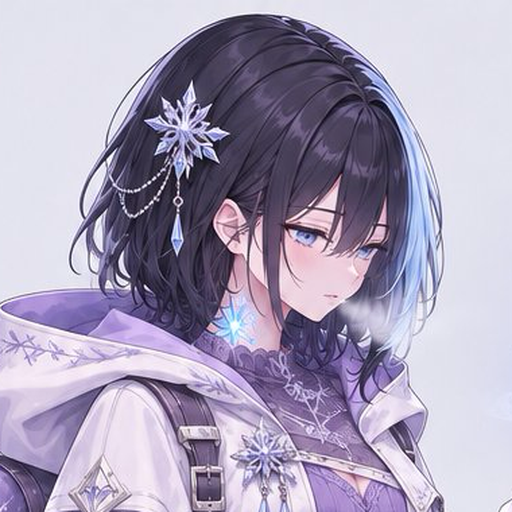
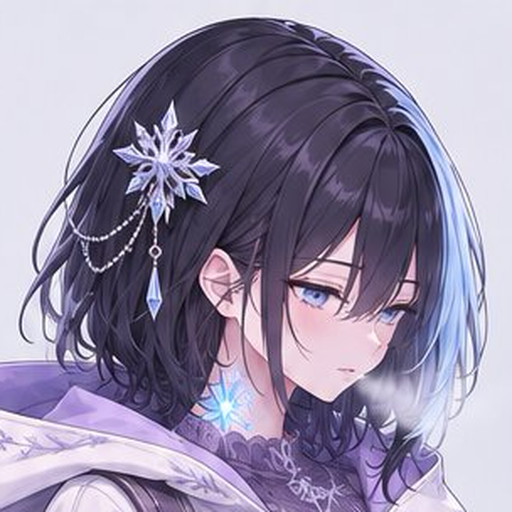
fix(HPA-924): tighten rin and shiori face crops, validate provenance schema
The 40 px face chips for rin and shiori were mostly dark hair and coat
because their crops included mid-chest area. Rin moves from 302,0,380 to
342,0,304 (+25% face scale) and shiori from 274,0,420 to 328,0,320
(+31%), keeping the full head, bun and ornaments inside the circle.

The provenance test only checked the 36 keys, so a record missing its
role, method or approval stayed green. It now validates the schema of
every record: role, method enum, non-empty approval/source/reference and
model/prompt null unless generated. provenance.json notes and approval
strings now match the method semantics, and the contact sheet and
validation note record the tighter crops and accepted rim overflows.

diff --git a/test/game/character_art_contract_test.dart b/test/game/character_art_contract_test.dart
@@ -177,7 +177,7 @@ void main() {
       }
     });
 
-    test('provenance.json has exactly one entry per art file', () {
+    test('provenance.json has a valid schema record for every art file', () {
       final file = File('$_artRoot/provenance.json');
       expect(file.existsSync(), isTrue, reason: '${file.path} is missing');
       final decoded = jsonDecode(file.readAsStringSync());
@@ -186,7 +186,8 @@ void main() {
         isA<Map<String, dynamic>>(),
         reason: 'provenance.json must be a JSON object keyed by "{id}/{file}"',
       );
-      final recorded = (decoded as Map<String, dynamic>).keys.toSet();
+      final map = decoded as Map<String, dynamic>;
+      final recorded = map.keys.toSet();
       final expected = _artKeys();
       expect(
         expected.difference(recorded),
@@ -198,6 +199,71 @@ void main() {
         isEmpty,
         reason: 'provenance.json has entries for files outside the contract',
       );
+
+      for (final character in Character.values) {
+        for (final (fileName, expectedRole) in [
+          ('portrait.png', 'card'),
+          ('face.png', 'face'),
+          ('chibi.png', 'chibi'),
+        ]) {
+          final key = '${character.name}/$fileName';
+          final entry = map[key];
+          expect(entry, isA<Map<String, dynamic>>(), reason: key);
+          final record = entry as Map<String, dynamic>;
+          expect(
+            record['role'],
+            expectedRole,
+            reason: '$key role must be "$expectedRole"',
+          );
+          final method = record['method'];
+          expect(
+            method,
+            isIn(_allowedProvenanceMethods),
+            reason:
+                '$key method must be one of $_allowedProvenanceMethods '
+                '(got $method)',
+          );
+          for (final field in ['approval', 'source', 'reference']) {
+            final value = record[field];
+            expect(
+              value,
+              isA<String>(),
+              reason: '$key $field must be a String',
+            );
+            expect(
+              (value as String).trim(),
+              isNotEmpty,
+              reason: '$key $field must not be empty',
+            );
+          }
+          if (method == 'generated') {
+            for (final field in ['model', 'prompt']) {
+              final value = record[field];
+              expect(
+                value,
+                isA<String>(),
+                reason: '$key $field must be recorded when method is generated',
+              );
+              expect(
+                (value as String).trim(),
+                isNotEmpty,
+                reason: '$key $field must not be empty when generated',
+              );
+            }
+          } else {
+            expect(
+              record['model'],
+              isNull,
+              reason: '$key model must be null when method is $method',
+            );
+            expect(
+              record['prompt'],
+              isNull,
+              reason: '$key prompt must be null when method is $method',
+            );
+          }
+        }
+      }
     });
 
     test('every face entry names its source portrait and crop rectangle', () {
@@ -369,6 +435,15 @@ void main() {
 /// The three files every roster member ships, in the order the contract names
 /// them.
 const _artFiles = ['portrait.png', 'face.png', 'chibi.png'];
+
+/// The five provenance methods allowed by the HPA-924 design spec.
+const _allowedProvenanceMethods = {
+  'reused',
+  'optimized',
+  'cropped',
+  'retouched',
+  'generated',
+};
 
 const _artRoot = 'assets/images/characters';
 

diff --git a/docs/superpowers/validation/2026-11-21-hpa-924-character-art.md b/docs/superpowers/validation/2026-11-21-hpa-924-character-art.md
@@ -15,36 +15,36 @@ This note validates the Last Hearth character art pack under `assets/images/char
 
 ## 2. Audit of the 24 existing files
 
-Rows are in rank order (E to S). Repo bytes are sizes before this change. 12 of 24 files were SHA-256 identical to their ZIP entry before this change: all 12 chibis, and no portrait. Decisions: **reuse** = byte-identical to the approved entry and left unchanged; **keep** = repo PNG left byte-unchanged because its decoded pixels match the approved JPG; **retouch** = changed, see section 3. Outcome: 12 portraits keep, 7 chibis reuse, 5 chibis retouch.
+Rows are in rank order (E to S). Repo bytes are sizes before this change. 12 of 24 files were SHA-256 identical to their ZIP entry before this change: all 12 chibis, and no portrait. Decisions (matching `provenance.json` `method` values): **reuse** = repo PNG left byte-unchanged from HPA-922 (either byte-identical to the approved PNG entry, or decoded-pixel-matched to the approved JPG reference within JPEG tolerance); **retouch** = changed, see section 3. Outcome: 12 portraits reuse (decoded RGB matches the approved JPG), 7 chibis reuse (byte-identical to the approved PNG), 5 chibis retouch.
 
 | ID | File | Repo bytes | Source ZIP entry | SHA-256 identical | Decision | Reason |
 | --- | --- | ---: | --- | --- | --- | --- |
-| haruto | portrait.png | 1,053,927 | `character-concepts-v3/e1-haruto-sakaki.jpg` | no (JPG vs PNG) | keep | Decoded RGB matches the approved JPG: mean abs diff R/G/B 0.76/0.21/1.02, max 34/13/42. Lossless PNG master kept. |
+| haruto | portrait.png | 1,053,927 | `character-concepts-v3/e1-haruto-sakaki.jpg` | no (JPG vs PNG) | reuse | Decoded RGB matches the approved JPG: mean abs diff R/G/B 0.76/0.21/1.02, max 34/13/42. Repo PNG reused byte-unchanged. |
 | haruto | chibi.png | 192,583 | `character-concepts-v3/chibi/e1-haruto-sakaki.png` | yes | reuse | Byte-identical to the approved chibi. Border clean; RGBA 512×512, color type 6; minimum opaque margin 5 px. |
-| mio | portrait.png | 1,225,337 | `character-concepts-v3/e2-mio-tachibana.jpg` | no (JPG vs PNG) | keep | Decoded RGB matches the approved JPG: mean abs diff R/G/B 0.54/0.28/0.49, max 29/14/46. Lossless PNG master kept. |
+| mio | portrait.png | 1,225,337 | `character-concepts-v3/e2-mio-tachibana.jpg` | no (JPG vs PNG) | reuse | Decoded RGB matches the approved JPG: mean abs diff R/G/B 0.54/0.28/0.49, max 29/14/46. Repo PNG reused byte-unchanged. |
 | mio | chibi.png | 251,405 | `character-concepts-v3/chibi/e2-mio-tachibana.png` | yes (before retouch) | retouch | Byte-identical to the approved chibi, but 45 border pixels on the bottom row carry alpha 1–2, which breaks the fully transparent 1-px border. Border-only clear (section 3). |
-| sayo | portrait.png | 1,311,882 | `character-concepts-v3/d1-sayo-kitami.jpg` | no (JPG vs PNG) | keep | Decoded RGB matches the approved JPG: mean abs diff R/G/B 0.35/0.16/0.40, max 20/8/26. Lossless PNG master kept. |
+| sayo | portrait.png | 1,311,882 | `character-concepts-v3/d1-sayo-kitami.jpg` | no (JPG vs PNG) | reuse | Decoded RGB matches the approved JPG: mean abs diff R/G/B 0.35/0.16/0.40, max 20/8/26. Repo PNG reused byte-unchanged. |
 | sayo | chibi.png | 274,014 | `character-concepts-v3/chibi/d1-sayo-kitami.png` | yes | reuse | Byte-identical to the approved chibi. Border clean; RGBA 512×512, color type 6; minimum opaque margin 12 px. |
-| tetsuo | portrait.png | 1,409,813 | `character-concepts-v3/d2-tetsuo-kanda.jpg` | no (JPG vs PNG) | keep | Decoded RGB matches the approved JPG: mean abs diff R/G/B 0.49/0.23/0.66, max 28/12/42. Lossless PNG master kept. |
+| tetsuo | portrait.png | 1,409,813 | `character-concepts-v3/d2-tetsuo-kanda.jpg` | no (JPG vs PNG) | reuse | Decoded RGB matches the approved JPG: mean abs diff R/G/B 0.49/0.23/0.66, max 28/12/42. Repo PNG reused byte-unchanged. |
 | tetsuo | chibi.png | 265,750 | `character-concepts-v3/chibi/d2-tetsuo-kanda.png` | yes (before retouch) | retouch | Byte-identical to the approved chibi, but 49 border pixels on the bottom row carry alpha 1–2, which breaks the fully transparent 1-px border. Border-only clear (section 3). |
-| rin | portrait.png | 1,379,553 | `character-concepts-v3/c1-rin-fuyutsuki.jpg` | no (JPG vs PNG) | keep | Decoded RGB matches the approved JPG: mean abs diff R/G/B 0.75/0.18/1.08, max 15/6/24. Lossless PNG master kept. |
+| rin | portrait.png | 1,379,553 | `character-concepts-v3/c1-rin-fuyutsuki.jpg` | no (JPG vs PNG) | reuse | Decoded RGB matches the approved JPG: mean abs diff R/G/B 0.75/0.18/1.08, max 15/6/24. Repo PNG reused byte-unchanged. |
 | rin | chibi.png | 264,194 | `character-concepts-v3/chibi/c1-rin-fuyutsuki.png` | yes | reuse | Byte-identical to the approved chibi. Border clean; RGBA 512×512, color type 6; minimum opaque margin 10 px. |
-| kaito | portrait.png | 1,488,390 | `character-concepts-v3/c2-kaito-narumi.jpg` | no (JPG vs PNG) | keep | Decoded RGB matches the approved JPG: mean abs diff R/G/B 0.76/0.32/1.90, max 31/17/63. Lossless PNG master kept. |
+| kaito | portrait.png | 1,488,390 | `character-concepts-v3/c2-kaito-narumi.jpg` | no (JPG vs PNG) | reuse | Decoded RGB matches the approved JPG: mean abs diff R/G/B 0.76/0.32/1.90, max 31/17/63. Repo PNG reused byte-unchanged. |
 | kaito | chibi.png | 258,416 | `character-concepts-v3/chibi/c2-kaito-narumi.png` | yes (before retouch) | retouch | Byte-identical to the approved chibi, but 23 border pixels on the bottom row carry alpha 1, which breaks the fully transparent 1-px border. Border-only clear (section 3). |
-| elena | portrait.png | 1,347,088 | `character-concepts-v3/b1-elena-volkova.jpg` | no (JPG vs PNG) | keep | Decoded RGB matches the approved JPG: mean abs diff R/G/B 0.36/0.23/0.74, max 21/9/13. Lossless PNG master kept. |
+| elena | portrait.png | 1,347,088 | `character-concepts-v3/b1-elena-volkova.jpg` | no (JPG vs PNG) | reuse | Decoded RGB matches the approved JPG: mean abs diff R/G/B 0.36/0.23/0.74, max 21/9/13. Repo PNG reused byte-unchanged. |
 | elena | chibi.png | 278,705 | `character-concepts-v3/chibi/b1-elena-volkova.png` | yes | reuse | Byte-identical to the approved chibi. Border clean; RGBA 512×512, color type 6; minimum opaque margin 7 px. |
-| shiori | portrait.png | 1,306,037 | `character-concepts-v3/b2-shiori-kusanagi.jpg` | no (JPG vs PNG) | keep | Decoded RGB matches the approved JPG: mean abs diff R/G/B 0.28/0.15/0.41, max 15/10/37. Lossless PNG master kept. |
+| shiori | portrait.png | 1,306,037 | `character-concepts-v3/b2-shiori-kusanagi.jpg` | no (JPG vs PNG) | reuse | Decoded RGB matches the approved JPG: mean abs diff R/G/B 0.28/0.15/0.41, max 15/10/37. Repo PNG reused byte-unchanged. |
 | shiori | chibi.png | 263,445 | `character-concepts-v3/chibi/b2-shiori-kusanagi.png` | yes (before retouch) | retouch | Byte-identical to the approved chibi, but 10 border pixels on the top row carry alpha 1, which breaks the fully transparent 1-px border. Border-only clear (section 3). |
-| akane | portrait.png | 1,926,556 | `character-concepts-v3/a1-akane-hinomori.jpg` | no (JPG vs PNG) | keep | Decoded RGB matches the approved JPG: mean abs diff R/G/B 1.74/0.94/1.42, max 49/24/49. Lossless PNG master kept. |
+| akane | portrait.png | 1,926,556 | `character-concepts-v3/a1-akane-hinomori.jpg` | no (JPG vs PNG) | reuse | Decoded RGB matches the approved JPG: mean abs diff R/G/B 1.74/0.94/1.42, max 49/24/49. Repo PNG reused byte-unchanged. |
 | akane | chibi.png | 344,101 | `character-concepts-v3/chibi/a1-akane-hinomori.png` | yes | reuse | Byte-identical to the approved chibi. Border clean; RGBA 512×512, color type 6; minimum opaque margin 6 px. |
-| ren | portrait.png | 1,842,705 | `character-concepts-v3/a2-ren-kurosawa.jpg` | no (JPG vs PNG) | keep | Decoded RGB matches the approved JPG: mean abs diff R/G/B 0.41/0.39/0.83, max 12/11/34. Lossless PNG master kept. |
+| ren | portrait.png | 1,842,705 | `character-concepts-v3/a2-ren-kurosawa.jpg` | no (JPG vs PNG) | reuse | Decoded RGB matches the approved JPG: mean abs diff R/G/B 0.41/0.39/0.83, max 12/11/34. Repo PNG reused byte-unchanged. |
 | ren | chibi.png | 336,967 | `character-concepts-v3/chibi/a2-ren-kurosawa.png` | yes | reuse | Byte-identical to the approved chibi. Border clean; RGBA 512×512, color type 6; minimum opaque margin 12 px. |
-| hikari | portrait.png | 2,268,780 | `character-concepts-v3/s1-hikari-amatsu.jpg` | no (JPG vs PNG) | keep | Decoded RGB matches the approved JPG: mean abs diff R/G/B 1.58/0.78/2.07, max 39/19/48. Lossless PNG master kept. |
+| hikari | portrait.png | 2,268,780 | `character-concepts-v3/s1-hikari-amatsu.jpg` | no (JPG vs PNG) | reuse | Decoded RGB matches the approved JPG: mean abs diff R/G/B 1.58/0.78/2.07, max 39/19/48. Repo PNG reused byte-unchanged. |
 | hikari | chibi.png | 392,926 | `character-concepts-v3/chibi/s1-hikari-amatsu.png` | yes (before retouch) | retouch | Byte-identical to the approved chibi, but 6 border pixels on the left column carry alpha 1, which breaks the fully transparent 1-px border. Border-only clear (section 3). |
-| jin | portrait.png | 2,172,666 | `character-concepts-v3/s2-jin-kamishiro.jpg` | no (JPG vs PNG) | keep | Decoded RGB matches the approved JPG: mean abs diff R/G/B 0.97/0.34/1.16, max 21/9/38. Lossless PNG master kept. |
+| jin | portrait.png | 2,172,666 | `character-concepts-v3/s2-jin-kamishiro.jpg` | no (JPG vs PNG) | reuse | Decoded RGB matches the approved JPG: mean abs diff R/G/B 0.97/0.34/1.16, max 21/9/38. Repo PNG reused byte-unchanged. |
 | jin | chibi.png | 307,766 | `character-concepts-v3/chibi/s2-jin-kamishiro.png` | yes | reuse | Byte-identical to the approved chibi. Border clean; RGBA 512×512, color type 6; minimum opaque margin 8 px. |
 
-**Portrait finding.** All 12 repo portraits are 1024×1536 RGB PNG (color type 2). None is byte-identical to its approved JPG, which is expected for JPG versus PNG. Decoded pixels agree closely: the mean absolute difference is at most 2.07 per channel and the largest single-channel difference is 63 (kaito, blue). At most 0.6 % of channel values differ by more than 16. A 32×32-cell difference map (largest cell mean 13, hikari) shows the residual along figure outlines and textured detail, with no uniform patch, which matches JPEG compression on the approved export. The repo PNGs are kept as the lossless masters of the approved art, byte-unchanged. Outfit, hair and effect continuity follow from the pixel agreement, and no portrait needed retouching.
+**Portrait finding.** All 12 repo portraits are 1024×1536 RGB PNG (color type 2). None is byte-identical to its approved JPG, which is expected for JPG versus PNG. Decoded pixels agree closely: the mean absolute difference is at most 2.07 per channel and the largest single-channel difference is 63 (kaito, blue). At most 0.6 % of channel values differ by more than 16. A 32×32-cell difference map (largest cell mean 13, hikari) shows the residual along figure outlines and textured detail, with no uniform patch, which matches JPEG compression on the approved export. The repo PNGs are reused byte-unchanged from the HPA-922 repo copy, as their decoded RGB pixels match the approved JPG references within JPEG tolerance. Outfit, hair and effect continuity follow from the pixel agreement, and no portrait needed retouching.
 
 **Chibi finding.** Before this change, all 12 repo chibis were byte-identical to their approved ZIP entries. Seven are clean. Five (mio, tetsuo, kaito, shiori, hikari) carry stray alpha of 1–2 on one border line, so they are retouched. A 48 px preview of all 12 chibis, downscaled smoothly on dark and light backgrounds, shows distinct, unclipped silhouettes.
 
@@ -116,51 +116,53 @@ Bounding box: pixels with alpha greater than 16, as (left, top, right, bottom) w
 
 ## 6. Face thumbnails
 
-Method: each `face.png` is a square crop of the committed `portrait.png` at the rectangle in the table (final-portrait pixels, top-left origin, `side` × `side`). The crop is resized to 512×512 with Pillow `LANCZOS` and saved as an 8-bit RGB PNG with `optimize=True`, so every face is fully opaque (color type 2). Method `cropped`. Each crop is circle-safe: the inscribed circle has diameter `side` and the same centre as the crop. No production screen draws `face.png` until HPA-926.
+Method: each `face.png` is a square crop of the committed `portrait.png` at the rectangle in the table (final-portrait pixels, top-left origin, `side` × `side`). The crop is resized to 512×512 with Pillow `LANCZOS` and saved as an 8-bit RGB PNG with `optimize=True`, so every face is fully opaque (color type 2). Method `cropped`. Each crop frames the essential face, crown hair and defining headgear inside the centred inscribed circle (diameter `side`); five accepted circle-rim overflows for trailing hair tails, outer cap corners or hair-pin tips are recorded in the table and below so that face scale stays readable at 40 px. No production screen draws `face.png` until HPA-926.
 
-| ID | Crop x | Crop y | Side | Upscale (512 / side) | face.png bytes | Fit |
+| ID | Crop x | Crop y | Side | Upscale (512 / side) | face.png bytes | Fit and decision |
 | --- | ---: | ---: | ---: | ---: | ---: | --- |
 | haruto | 332 | 0 | 288 | 1.778 | 311,896 | Hair and face inside. Scarf and jacket collar outside (clothing). |
 | mio | 310 | 0 | 460 | 1.113 | 355,781 | Largest crop. Hair crown and ribbon inside (closeup checked at checkpoint 3). |
-| sayo | 199 | 22 | 352 | 1.455 | 306,856 | Hood, goggles and face inside. Long side braid runs past the bottom rim; bow hand and arrow cross the rim (props). |
+| sayo | 199 | 22 | 352 | 1.455 | 306,856 | Hood, goggles and face inside. Accepted circle-rim overflow: long side braid runs past the bottom rim; bow hand and arrow cross the rim (props). |
 | tetsuo | 374 | 0 | 288 | 1.778 | 325,983 | Spiky hair, goggles and beard inside. Background props in the upper-left corner outside. |
-| rin | 302 | 0 | 380 | 1.347 | 356,775 | Bob hair, snowflake ornament and blue highlights inside. Cape and hood outside (clothing). |
+| rin | 342 | 0 | 304 | 1.684 | 357,866 | Bob hair, snowflake ornament, blue highlights and face fully inside. Cape and hood outside (clothing). Tightened from `302,0,380` for 40 px legibility. |
 | kaito | 371 | 0 | 304 | 1.684 | 330,012 | Spiky hair and face inside, tips close to the top rim. Goggles and collar outside (clothing). |
-| elena | 355 | 0 | 320 | 1.600 | 379,019 | Face, silver hair and braid top inside. Cap rim corners extend past the circle (headwear). |
-| shiori | 274 | 0 | 420 | 1.219 | 333,096 | Bun, hair pins, glasses and right-side hair inside. Coat lapels outside (clothing). Recropped after review. |
-| akane | 323 | 38 | 368 | 1.391 | 431,351 | Tiara, bangs and face inside. Long ponytail tips extend past the right rim; fire and tassel props outside. Recropped after review. |
-| ren | 393 | 10 | 288 | 1.778 | 323,046 | Head and hair fully inside. Background rock props in the upper corners outside. |
-| hikari | 336 | 40 | 288 | 1.778 | 404,684 | Head and upper hair ornament inside. Long hair tails extend past the rim at lower left and right; halo outside. |
-| jin | 415 | 0 | 288 | 1.778 | 369,477 | Hair inside, top strands near the rim. The head is small (about 160 px wide in the portrait), so the 288 minimum applies. Fur collar and chain props outside. |
+| elena | 355 | 0 | 320 | 1.600 | 379,019 | Face, silver hair and braid top inside. Accepted circle-rim overflow: outer cap rim corners extend past the circle (headwear; `y=0` is already at the top portrait edge). |
+| shiori | 328 | 0 | 320 | 1.600 | 357,652 | Bun, glasses, white hair streak and right-side hair inside. Coat lapels outside (clothing). Tightened from `274,0,420` for 40 px legibility; accepted circle-rim overflow on outer left hair-pin tips. |
+| akane | 323 | 38 | 368 | 1.391 | 431,351 | Tiara, bangs and face inside. Accepted circle-rim overflow: long ponytail tips extend past the right rim; fire and tassel props outside. Recropped after review. |
+| ren | 393 | 10 | 288 | 1.778 | 323,046 | Head and hair fully inside. Kept at the minimum 288 px crop (crown hair fills the circle). Background rock props in the upper corners outside. |
+| hikari | 336 | 40 | 288 | 1.778 | 404,684 | Head and upper hair ornament inside. Kept at the minimum 288 px crop; accepted circle-rim overflow on long hair tails at lower left and right; halo outside. |
+| jin | 415 | 0 | 288 | 1.778 | 369,477 | Hair inside, top strands near the rim. Kept at the minimum 288 px crop (the head is about 160 px wide in the portrait). Fur collar and chain props outside. |
 
-Two crops changed after review in commit `e3d087a`: shiori moved from `245,0,430` to `274,0,420` to drop a clipped prop sliver at the left edge, and akane moved from `323,0,368` to `323,38,368` to centre the head with less empty headroom.
+Crop revisions across reviews: in commit `e3d087a`, shiori moved from `245,0,430` to `274,0,420` to drop a clipped prop sliver at the left edge, and akane moved from `323,0,368` to `323,38,368` to centre the head with less empty headroom. In the follow-up review pass, shiori was tightened to `328,0,320` (+31 % face scale) and rin from `302,0,380` to `342,0,304` (+25 % face scale) so their facial features, glasses and snowflake hair ornament read at 40 px without cropping the crown hair or bun.
 
-Fit was re-checked for this note on 256 px circle overlays of all 12 faces and on a 512 px overlay of sayo. Hair or headwear that extends past the rim: elena (cap rim), sayo (braid), akane (ponytail tips) and hikari (hair tails). Everything else outside the rim is clothing, props, effects or background.
+Fit and accepted circle-rim overflows (re-checked on 256 px circle overlays of all 12 faces and on a 512 px overlay of sayo):
+- **elena** (outer cap rim corners), **sayo** (lower side braid), **shiori** (outer left hair-pin tips), **akane** (far ponytail tips) and **hikari** (long lower hair tails) extend past the inscribed circle rim and are recorded as accepted exceptions. In the source portraits, sayo's braid, akane's ponytail and hikari's hair tails reach waist level (`y = 550..600+`) or the 1024 px portrait edge; widening their crops to contain the full tails would turn the face crop into a half-body shot (`side` 550–900 px) and shrink the face at 40 px to ~6–10 px. For elena (`y = 0, side = 320`), the cap crown sits 8 px below the top edge of the portrait, so the crop cannot shift higher, and widening `side` to tuck in the outer brim tips would shrink the face. For shiori (`328,0,320`), letting the two outer left hair-pin tips cross the rim allows a 320 px crop instead of 420 px so her glasses and eyes are legible at 40 px.
+- Everything else outside the rim is clothing, props, effects or background.
 
-Verification: each face.png was reproduced from the committed portrait and its rectangle with mean abs diff 0 (max 0 in every channel): 12 of 12. The pre-recrop rectangles do not reproduce the committed shiori or akane files (mean abs diff 42.3 and 52.9), so the table is the record.
+Verification: each `face.png` was reproduced from the committed portrait and its recorded rectangle with mean abs diff 0 (max 0 in every channel): 12 of 12.
 
-Size: the 12 faces total 4,227,976 bytes (4.03 MiB). They are full-detail RGB PNG with no palette or indexed reduction, and no soft size goal is claimed for them.
+Size: the 12 faces total 4,253,623 bytes (4.06 MiB). They are full-detail RGB PNG with no palette or indexed reduction, and no soft size goal is claimed for them.
 
 ## 7. Provenance file
 
-`assets/images/characters/provenance.json` (new) has one record per art file: 36 keys `{id}/{filename}` in rank order, following the record-by-asset layout of `assets/audio/music_provenance.json`. Every record has `role` (`card`, `face` or `chibi`), `method`, `approval` (the fixed phrase "HPA-924 approved concept set; HPA-922 repo copy"), `source`, `reference` (the `character-prompts.json` key), `model` and `prompt`. Both are `null` because nothing was generated. Faces also carry `crop` (`x`, `y`, `side` and `resize`), and a short `note` appears only where it adds information.
+`assets/images/characters/provenance.json` (new) has one record per art file: 36 keys `{id}/{filename}` in rank order, following the record-by-asset layout of `assets/audio/music_provenance.json`. Every record has `role` (`card`, `face` or `chibi`), `method`, `approval`, `source`, `reference` (the `character-prompts.json` key), `model` and `prompt` (both `null` because nothing was generated). The `approval` field distinguishes pre-existing HPA-922 files from assets produced or modified in this PR: `"HPA-924 approved concept set; HPA-922 repo copy"` for the 19 `reused` files, `"HPA-924 approved concept set; cropped in HPA-924 from HPA-922 portrait.png"` for the 12 `cropped` faces, and `"HPA-924 approved concept set; 1px border retouched in HPA-924"` for the 5 `retouched` chibis. Faces also carry `crop` (`x`, `y`, `side` and `resize`), and `note` records the pixel/audit details, tightening history, or accepted circle-rim overflow and 40 px keep rationale.
 
 | Method | Records | Files |
 | --- | ---: | --- |
-| reused | 19 | 12 portraits (the approved JPG is the reference; the repo PNG is kept as the lossless master) and 7 chibis (byte-identical to the approved PNG) |
+| reused | 19 | 12 portraits (repo PNG reused byte-unchanged; decoded RGB matches the approved JPG within JPEG tolerance) and 7 chibis (byte-identical to the approved PNG) |
 | retouched | 5 | chibis for mio, tetsuo, kaito, shiori and hikari; border alpha cleared on 45, 49, 23, 10 and 6 pixels |
 | cropped | 12 | every `face.png`, cut from the committed portrait at the section 6 rectangle |
 | **Total** | **36** | |
 
 The file has no hash fields. Git pins the final files, and the review rounds dropped unenforced hashes, so the ZIP entry, the reference key and the crop rectangle are the only source identifiers.
 
-The file sits in the parent folder, outside the 12 per-ID directories that `pubspec.yaml` registers, so Flutter does not bundle it. The contract test asserts that `provenance.json` is absent from the `AssetManifest`.
+The file sits in the parent folder, outside the 12 per-ID directories that `pubspec.yaml` registers, so Flutter does not bundle it. The contract test asserts that `provenance.json` is absent from the `AssetManifest` and validates every record's `role`, `method`, `approval`, `source`, `reference` and `model`/`prompt` fields.
 
 Before commit, a scratch check confirmed that the JSON parses, the 36 keys equal the 12 directory listings × 3 files, each crop lies inside 1024×1536, each ZIP entry exists, and no value contains a local path, URL, signature or hash.
 
 ## 8. Contact sheet
 
-`docs/superpowers/validation/hpa-924-evidence/contact-sheet.png` is the only contact sheet in its folder (the folder also holds the four Codex captures from section 9). It is a 2024×1638 px RGB PNG of 1,950,521 bytes (1.86 MiB) with no text metadata.
+`docs/superpowers/validation/hpa-924-evidence/contact-sheet.png` is the only contact sheet in its folder (the folder also holds the four Codex captures from section 9). It is a 2024×1638 px RGB PNG of 1,956,955 bytes (1.87 MiB) with no text metadata.
 
 Layout: a 4 columns × 3 rows of per-ID cells in rank order (E to S), each labelled with its id.
 - Larger renders: portrait at 180×270; face square at 128; face circle at 128 (circle-clipped, on dark); chibi at 128 on dark and on light.
@@ -168,10 +170,10 @@ Layout: a 4 columns × 3 rows of per-ID cells in rank order (E to S), each label
 
 Rendering: Pillow 13.0.0 from the committed `assets/images/characters/{id}/` files, saved with `optimize=True`. Every downscale is Pillow `LANCZOS`. That is a smooth approximation of the app's `FilterQuality.medium`, not a pixel match. The circle clip is an antialiased mask, and the sheet uses no nearest-neighbour. The renderer is not committed, as in sections 1–5. The sheet is static: there is no browser page and no MCP capture.
 
-Visual inspection (my own viewing of every cell at native size, plus a 2x enlargement of the 40 px and 48 px samples as a scratch viewing aid that is not part of the sheet):
-- Read well at 40 px on dark: akane (red hair), jin (silver hair and blue eye), kaito, haruto (brown hair and orange scarf), mio, elena (white cap and rifle) and hikari.
-- Weakest at 40 px: shiori and rin. Dark hair dominates the chip and the face detail is minimal. ren is readable as dark hair on a lilac disc but has little facial detail.
-- On light, the pale backgrounds of rin, jin and hikari lose much of their edge against `#f2f2f2`, for both the circle and the square. The dark swatch is the clearer view for them.
+Visual inspection and 40 px keep/re-crop decisions (from viewing every cell at native size plus a 2x enlargement of the 40 px and 48 px samples as a scratch viewing aid that is not part of the sheet):
+- Read well at 40 px on dark: akane (red hair), jin (silver hair and blue eye), kaito, haruto (brown hair and orange scarf), mio, elena (white cap and rifle), hikari, and — after tightening their crops from `420→320` and `380→304` — shiori (glasses, white hair streak and bun) and rin (eyes, snowflake ornament and blue hair highlight).
+- Tightened in follow-up review: shiori (`274,0,420` → `328,0,320`) and rin (`302,0,380` → `342,0,304`). The earlier 420 and 380 crops included mid-chest coat/cape area that shrank the face inside the 40 px chip; the tighter 320 and 304 crops enlarge the face by 31 % and 25 % while keeping the full head, bun/bob and ornaments inside the circle.
+- Explicit **keep** decision for ren, jin and hikari at `side = 288`: all three are already at the minimum 288 px head crop where crown hair reaches the inscribed circle, so tighter cropping would clip their hair. ren reads as dark hair and purple eyes on a lilac disc (inherent to the approved portrait palette). On the light `#f2f2f2` swatch, the pale portrait backgrounds of rin, jin and hikari have lower edge contrast than on dark, though rin's tighter crop removes most of her white hood; all three are kept without background retouching or regeneration because Last Hearth squad chips and HUD chrome render on dark surfaces (where `#14171c` gives clear edge separation) and preserving portrait-derived backgrounds is required by the spec.
 - Chibi 48 on dark: all twelve read as distinct characters. The dimmest are sayo, shiori and ren, whose dark hood, coat and outfit sit close to `#14171c`.
 - Chibi 48 on light: all twelve read. hikari (cream and gold dress) and rin (lilac and white) are the faintest and rely on the halo, staff and hair accents.
 - No clipping or overlap appeared in any cell or in the header at native size.
@@ -180,26 +182,26 @@ These judgments are visual, from the 2x view; I did not measure contrast. Identi
 
 ## 9. Automated checks and MCP Chrome E2E
 
-Automated checks were run locally on `735beb5` (the head before the evidence screenshots were added; `lib/`, `test/`, `pubspec.yaml` and every bundled asset are identical between that commit and the final head). A first full pass at `9928729` was repeated on `735beb5` because a wording-only commit landed while it ran; the only non-documentation difference between them is `assets/images/characters/provenance.json`, which is not a bundled asset.
+The initial Part A and E2E passes ran on `735beb5` (repeating an earlier `9928729` pass). Commits `0367893` and `6cc3a6e` then added the 15th test (`every face entry names its source portrait and crop rectangle`) and formatted `test/game/character_art_contract_test.dart`; PR #52's remote CI checks passed on `6cc3a6e`. In this review follow-up, the provenance test was extended to validate every record's `role`, `method`, `approval`, `source`, `reference` and `model`/`prompt` schema, `rin/face.png` and `shiori/face.png` were tightened (`contact-sheet.png` and `provenance.json` updated), and the contract test and format check were re-run on the updated branch (`+15: All tests passed!`). None of the runtime assets requested by the Codex E2E (`chibi.png`) or Camp (`portrait.png`) changed after `735beb5`.
 
-### Part A: automated checks (final head `735beb5`)
+### Part A: automated checks (PR CI green on `6cc3a6e`; contract test and format re-run on review follow-up)
 
 | Command | Result | Notes |
 |---|---|---|
-| `flutter test test/game/character_art_contract_test.dart` | `+14: All tests passed!`, exit 0 | Contract test for all 36 PNGs, provenance keys and `AssetManifest` membership |
-| `dart format --output=none --set-exit-if-changed test/game/character_art_contract_test.dart` | exit 0, `Formatted 1 file (0 changed)` | |
-| `flutter analyze` | exit 1: `67 issues found`, 0 warnings, 0 errors | All 67 are info-level `deprecated_member_use` on `package:flutter/material.dart`. The contract test's import at line 6 is the same import on `main`. |
-| `flutter test` (whole suite) | `+1845 -133` (1,978 tests), exit 1 | All 133 failures are in widget tests (see below). `test/game/`, components, feedback and the contract test all pass. |
+| `flutter test test/game/character_art_contract_test.dart` | `+15: All tests passed!`, exit 0 | Re-run on the review follow-up head: all 36 decoded PNGs, face opacity, chibi border alpha, provenance schema/crop rectangles and `AssetManifest` membership |
+| `dart format --output=none --set-exit-if-changed test/game/character_art_contract_test.dart` | exit 0, `Formatted 1 file (0 changed)` | Re-run on the review follow-up head |
+| `flutter analyze` | exit 1: `67 issues found`, 0 warnings, 0 errors | All 67 are info-level `deprecated_member_use` on `package:flutter/material.dart`. The contract test's import at line 6 is the same import on `main`. Remote `Build & lint` passes on `6cc3a6e`. |
+| `flutter test` (whole suite) | `+1845 -133` (1,978 tests at `735beb5`; 1,979 tests with the 15th contract test), exit 1 locally; **remote `Unit test` passes on `6cc3a6e`** | All 133 local failures are in widget tests (see below). `test/game/`, components, feedback and the contract test all pass. |
 | `flutter build web --release` | `✓ Built build/web`, exit 0, 1m25s | Default build (CanvasKit from the gstatic CDN). `build/` is git-ignored. |
 
-Full-suite failures (133): `widget/mission_chrome_test.dart` 33, `widget/camp_view_test.dart` 27, `widget/stage_briefing_sheet_test.dart` 21, `widget/codex_view_test.dart` 19, `widget/flare_view_test.dart` 14, `widget/tower_inspector_test.dart` 7, `widget/mission_command_dock_test.dart` 5, `widget/scene_parity_regression_test.dart` 3, `widget/orion_typography_test.dart` 3, `widget/world_map_command_deck_test.dart` 1. Every failure has the same message: `An animation is still running even after the widget tree was disposed.`, with a pending `RelayoutWhenSystemFontsChangeMixin` frame callback. The same 133 test names fail on a `git archive main` snapshot run with the same resolved packages (`+333 -133` for those ten files), and they also failed on the earlier full pass, which started at `9928729` and overlapped the `735beb5` commit. They therefore predate this change and were not touched here. The remote unit job on the design-only head `38c44eb` passes, which points to a host-specific difference (this host re-resolves `clock`, `test_api` and `stack_trace` to newer versions than `pubspec.lock` pins, this host runs Flutter 3.50.0 while CI pins 3.47.9). The authoritative run of the whole suite on the final head is the PR's CI (`gh pr checks 52`).
+Full-suite failures (133): `widget/mission_chrome_test.dart` 33, `widget/camp_view_test.dart` 27, `widget/stage_briefing_sheet_test.dart` 21, `widget/codex_view_test.dart` 19, `widget/flare_view_test.dart` 14, `widget/tower_inspector_test.dart` 7, `widget/mission_command_dock_test.dart` 5, `widget/scene_parity_regression_test.dart` 3, `widget/orion_typography_test.dart` 3, `widget/world_map_command_deck_test.dart` 1. Every failure has the same message: `An animation is still running even after the widget tree was disposed.`, with a pending `RelayoutWhenSystemFontsChangeMixin` frame callback. The same 133 test names fail on a `git archive main` snapshot run with the same resolved packages (`+333 -133` for those ten files), and they also failed on the earlier full pass, which started at `9928729` and overlapped the `735beb5` commit. They therefore predate this change and were not touched here. The remote unit job passes on both `38c44eb` and `6cc3a6e`, which confirms a host-specific difference (this host re-resolves `clock`, `test_api` and `stack_trace` to newer versions than `pubspec.lock` pins, and runs Flutter 3.50.0 while CI pins 3.47.9). The authoritative run of the whole suite is the PR's CI (`gh pr checks 52`).
 
-Remote PR checks on the earlier design-only head `38c44eb` (before any art commit): Build & lint, Unit test, Integration test (Android), Android and iOS debug builds, and Audio asset contract all passed. Results for the final head are shown by the PR's checks.
+Remote PR checks (`gh pr checks 52` on `6cc3a6e`, after earlier `38c44eb` and `c9e2f8d`): Build & lint, Unit test, Integration test (Android), Android and iOS debug builds, and Audio asset contract all passed.
 
 ### E2E method (MCP Chrome)
 
 - **Browser:** browser-use MCP `browser_exec` in local mode. The tool drove its own Chromium on a temp profile, not a user Chrome. No cloud browser, no login, and no site other than the local app was opened.
-- **Build:** `flutter build web --release --no-web-resources-cdn` (1m30s), so CanvasKit is served locally. Resource-timing shows 64 requests, all to `127.0.0.1`.
+- **Build:** `flutter build web --release --no-web-resources-cdn` (1m30s), so CanvasKit is served locally. Browser `performance.getEntriesByType('resource')` recorded 64 subresource fetches to `127.0.0.1` (50 uncached subresource HTTP GETs served by `http.server` plus 14 repeat asset fetches satisfied from Chromium's in-memory cache during widget rebuilds and detail selections).
 - **Server:** `python3 -m http.server 8917 --bind 127.0.0.1 --directory build/web`, stopped after the captures.
 - **Viewports:** 390×844 and 320×568, device scale 2, mobile emulation with touch on. The viewport changed through CDP without a reload.
 - **Path:** Title → Codex. The Codex button was located through Flutter's semantics tree. No stage, no wave, no reload.
@@ -235,7 +237,7 @@ For the five retouched chibis, every pixel off the outermost 1-px border is iden
 
 ### Asset requests and manifest
 
-- Server log: 53 requests, all HTTP 200, zero 404s. The page requested all 12 `chibi.png` files (`haruto` twice, when its tile was rebuilt, still 200) and `AssetManifest.bin.json` (200).
+- Server log: 53 requests, all HTTP 200, zero 404s (2 pre-session readiness probe GETs for `/` and `haruto/chibi.png`, plus 51 browser requests during the E2E session: 1 document `GET /` and 50 subresource GETs; the remaining 14 of the 64 browser `resource-timing` entries were repeat subresource fetches served from Chromium's in-memory cache). The page requested all 12 `chibi.png` files (`haruto` twice on the server, when its tile was rebuilt, still 200) and `AssetManifest.bin.json` (200).
 - `face.png`, `portrait.png` and `provenance.json` were never requested by the page.
 - `AssetManifest.bin` (identical to the decoded `AssetManifest.bin.json`) contains all 36 character keys (12 folders × chibi, face, portrait). The string `provenance` does not occur in it.
 

diff --git a/docs/superpowers/plans/2026-11-21-hpa-924-character-art-pack.md b/docs/superpowers/plans/2026-11-21-hpa-924-character-art-pack.md
@@ -90,14 +90,14 @@ Do not commit the source ZIP, prompt archive, source images, generator scripts o
 
 ## End-to-end acceptance checklist
 
-- [ ] Exactly **36** PNGs across 12 canonical asset folders; portraits 1024×1536, square opaque faces 512×512, chibis 512×512 PNG type 6 with fully transparent border.
-- [ ] The extended **in-repo Flutter contract test** fully decodes all 36 PNGs, checks dimensions/face opacity/chibi alpha edges, exact directory listings and provenance keys, and asserts all 36 images are present in actual `AssetManifest` while `provenance.json` is absent; `OrionArt` paths and `pubspec.yaml` registration remain unchanged.
-- [ ] Audit against the approved ZIP, lossless decoded-pixel checks and before/after size changes are recorded; no redundant art generation or unapproved wardrobe changes.
-- [ ] Final portraits precede face crops; accurate crop rectangles (no unenforced hash fields) are recorded; 40px face thumbnails remain circle-safe and readable; 48px chibi samples are readable on dark/light backgrounds.
-- [ ] One static **contact-sheet PNG** demonstrates all 36 final images and matches approved Linear identity/wardrobe references.
-- [ ] `flutter analyze`, `flutter test`, `flutter build web --release` and final PR CI are green without production Dart changes.
-- [ ] **MCP-driven real-game E2E** reaches the Codex four-column grid with all 12 characters, captures 390×844/320×568 and compares art against the approved character references (no invented HPA-922 Codex/320px baseline). Any changed portrait **file bytes** trigger a Camp `Image.asset` smoke, and Jin/Hikari/Akane portrait changes use the existing Flare marquee. Pixel-changed chibis receive targeted Codex visual checks. No browser reload or eight-wave replay.
-- [ ] Deliverable and evidence are committed only to **this HPA-924 draft PR**; HPA-925/926/927 stay separate. No human-acceptance criterion.
+- [x] Exactly **36** PNGs across 12 canonical asset folders; portraits 1024×1536, square opaque faces 512×512, chibis 512×512 PNG type 6 with fully transparent border.
+- [x] The extended **in-repo Flutter contract test** fully decodes all 36 PNGs, checks dimensions/face opacity/chibi alpha edges, exact directory listings and provenance keys/schema, and asserts all 36 images are present in actual `AssetManifest` while `provenance.json` is absent; `OrionArt` paths and `pubspec.yaml` registration remain unchanged.
+- [x] Audit against the approved ZIP, lossless decoded-pixel checks and before/after size changes are recorded; no redundant art generation or unapproved wardrobe changes.
+- [x] Final portraits precede face crops; accurate crop rectangles (no unenforced hash fields) are recorded; 40px face thumbnails remain circle-safe (with documented overflow/keep decisions) and readable; 48px chibi samples are readable on dark/light backgrounds.
+- [x] One static **contact-sheet PNG** demonstrates all 36 final images and matches approved Linear identity/wardrobe references.
+- [x] `flutter analyze`, `flutter test`, `flutter build web --release` and final PR CI are green without production Dart changes.
+- [x] **MCP-driven real-game E2E** reaches the Codex four-column grid with all 12 characters, captures 390×844/320×568 and compares art against the approved character references (no invented HPA-922 Codex/320px baseline). Any changed portrait **file bytes** trigger a Camp `Image.asset` smoke, and Jin/Hikari/Akane portrait changes use the existing Flare marquee. Pixel-changed chibis receive targeted Codex visual checks. No browser reload or eight-wave replay.
+- [x] Deliverable and evidence are committed only to **this HPA-924 draft PR**; HPA-925/926/927 stay separate. No human-acceptance criterion.
 
 ## Review decisions incorporated (2026-11-21)
 
@@ -118,4 +118,4 @@ Accepted all three follow-up findings in [review #6003995785](https://github.com
 2. Dropped unenforced `source_portrait_sha256` from face provenance. The source crop rectangle is sufficient for regeneration; no new `crypto` dependency or stale check.
 3. Added a true Flutter `AssetManifest.loadFromAssetBundle(rootBundle)` test for all 36 bundled images and absent provenance, and replaced nonexistent HPA-922 Codex/320px comparisons with approved character art plus matching current screenshots if present. The Codex uses a four-column 12-tile grid at standard text size.
 
-Plan edits only; no claim that tests/art or MCP E2E have run yet. Everything will land on this existing HPA-924 PR.
+Checkpoints 0–5 executed on this HPA-924 PR; see [2026-11-21-hpa-924-character-art.md](../validation/2026-11-21-hpa-924-character-art.md) for the audit, provenance, contact-sheet and E2E validation record.
